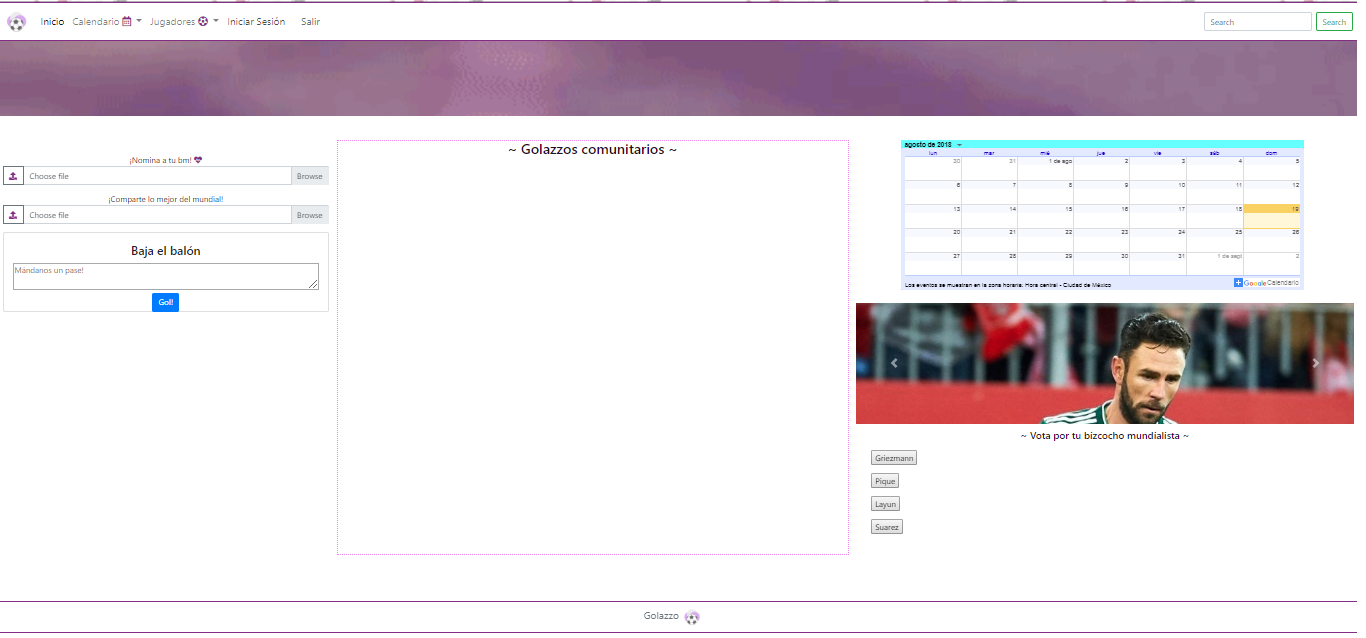
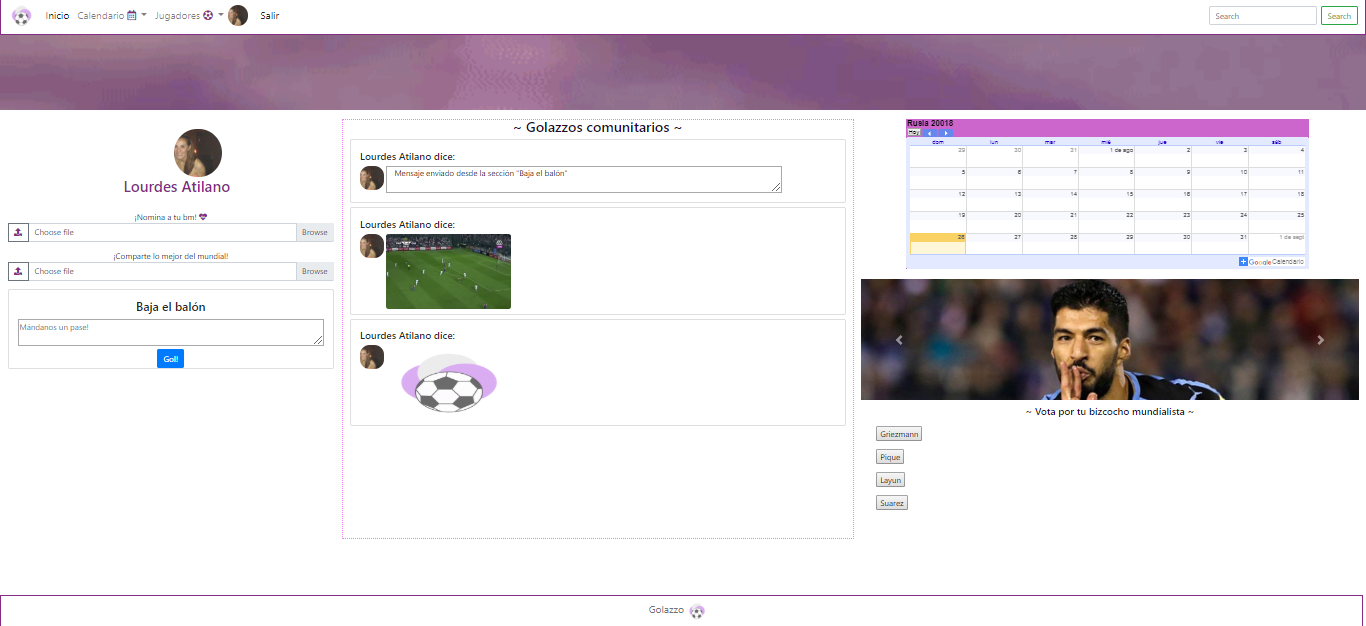
se actualizaron las imagenes para demostracion de vistas en mobile y desktop, se agrego la funcionalidad para el logout a firebase;

diff --git a/js/app.js b/js/app.js
@@ -27,6 +27,14 @@ $('#login-btn').click(function () {
     });
 });
 
+/* Hacer el logout de Firebase */
+$('#logut-btn').click(function(){
+    firebase.auth().signOut();
+    $('#login-btn').show();
+    $('#logout-btn').addClass("disabled");
+    $('#profile-user').addClass("disabled");
+});
+
 var userInfo = {};
 
 /* Función para guardar la info de los usuarios */

diff --git a/README.md b/README.md
@@ -22,6 +22,8 @@ Finalmente en la sección de Calentandario, apareceren cuando fueron celebrados 
 * HTML5
 * API de Google Calendar
 
+----
+
 ### Vista Desktop:
 ![screenshoot-Desktop](./assets/images/golazzo-viewDesktop.png)
 
